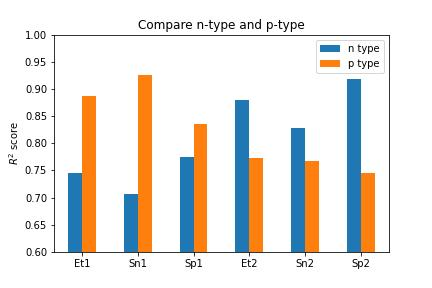
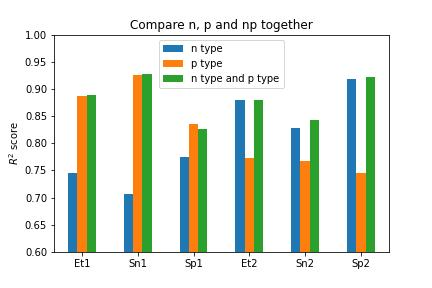
s

diff --git a/2_levels_problem/mode2/R2_compare/R2_compare.py b/2_levels_problem/mode2/R2_compare/R2_compare.py
@@ -54,6 +54,13 @@ class table_visualization():
         columns=['Et1', 'Sn1', 'Sp1', 'Et2', 'Sn2', 'Sp2'],
         index=['Set11', 'Set10', 'Set01', 'Set00'])
 
+        self.np_R2_table = pd.DataFrame([[0.98, 0.922, 0.9, 0.842, 0.74, 0.9],
+        [0.936, 0.987, 0.941, 0.921, 0.907, 0.923],
+        [0.811, 0.917, 0.726, 0.82, 0.789, 0.93],
+        [0.829, 0.883, 0.74, 0.935, 0.936, 0.934]],
+        columns=['Et1', 'Sn1', 'Sp1', 'Et2', 'Sn2', 'Sp2'],
+        index=['Set11', 'Set10', 'Set01', 'Set00'])
+
 
     def n_p_plot(self):
         '''
@@ -69,6 +76,29 @@ class table_visualization():
         plt.figure(facecolor='white')
         av.plot(kind='bar')
         plt.title('Compare n-type and p-type')
+        plt.ylabel('$R^2$' + ' score')
+        plt.xticks(rotation=0)
+        plt.ylim([0.6, 1])
+        # export the image
+        plt.savefig('npcompare.jpg')
+        plt.show()
+
+
+    def n_p_both_plot(self):
+        '''
+        Take the average of each column and plot a two column bar plot.
+        '''
+        # take the average along y axis
+        n_av = self.n_R2_table.mean(axis=0)
+        p_av = self.p_R2_table.mean(axis=0)
+        np_av = self.np_R2_table.mean(axis=0)
+        av = pd.concat([n_av, p_av, np_av], axis=1)
+        av.columns=['n type', 'p type', 'n type and p type']
+        # print(av)
+        # plot the figure.
+        plt.figure(facecolor='white')
+        av.plot(kind='bar')
+        plt.title('Compare n, p and np together')
         plt.ylabel('$R^2$' + ' score')
         plt.xticks(rotation=0)
         plt.ylim([0.6, 1])
@@ -102,6 +132,6 @@ class table_visualization():
 
 # %%--
 ob1 = table_visualization()
-# ob1.n_p_plot()
-ob1.set_plot(param='Et2')
+ob1.n_p_both_plot()
+# ob1.set_plot(param='Et2')
 # %%-
